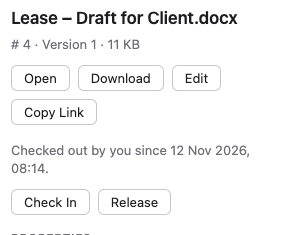
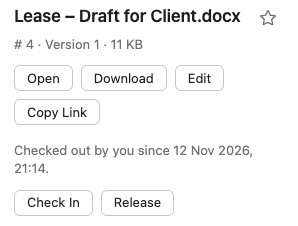
Retake the pictures the final fixes made untrue
The final review's fixes changed what some of the docs' pictures show: a
document's details now have a Favorites star beside its name (R93), Author
and Typist are people to pick in Edit and the filing form (R92), the #
result has the toolbar (R95), and Healdan Settings has had Start In since
PR A. Each picture is retaken from a fresh demo stack built from 88058278f,
as Task 21b took the User Guide's (headless Chrome at 1280 x 800, light,
Europe/London, en-GB, cropped losslessly), and keeps its file name:

- Admin Guide, Healdan Settings: the panel with Start In and the Storage tab
- Getting Around's whole window, Downloading's toolbar, Versions and both
  of Checking Out's pictures: the details with the star
- Finding by Doc #: the # result with its toolbar
- Properties: the Edit form with Author's list open
- Filing a Document: the form with Author and Typist as pickers

Their alt texts say what each now shows. The other pictures were checked
against the app and show nothing these fixes changed.

diff --git a/site/content/user/documents/checking-out-and-checking-in/index.md b/site/content/user/documents/checking-out-and-checking-in/index.md
@@ -38,7 +38,7 @@ time. It doesn't download anything: to edit the file, use **Open** (see
 [Opening Documents](../../office/opening-documents/)), or **Download** it (see
 [Downloading Documents](../downloading-documents/)).
 
-![The details of Lease – Draft for Client.docx, # 4, after Check Out: "Checked out by you since 12 Nov 2026, 08:14." with Check In and Release buttons, under Open, Download, Edit and Copy Link](checked-out-by-you.png)
+![The details of Lease – Draft for Client.docx, # 4, after Check Out: "Checked out by you since 12 Nov 2026, 21:14." with Check In and Release buttons, under its name and Favorites star and Open, Download, Edit and Copy Link](checked-out-by-you.png)
 
 You need permission to write the document. **Check Out** is greyed out while someone else has the document checked out
 or locked, and for a document you can't write.
@@ -64,7 +64,7 @@ That goes for your own check-out on a computer too. One you made by opening a do
 [Healdan Helper](../../office/) belongs to that computer, and the details say "Checked out by you on" its name. Release
 it there, or in the Classic Interface.
 
-![The details of Lease – Engrossment.docx, # 48, held on a computer: "Checked out by you on Healdan Helper on Office PC since 12 Nov 2026, 08:14. Release it on that computer, or in the Classic Interface (Unlock).", with Edit greyed out](checked-out-on-computer.png)
+![The details of Lease – Engrossment.docx, # 48, held on a computer: "Checked out by you on Healdan Helper on Office PC since 12 Nov 2026, 21:14. Release it on that computer, or in the Classic Interface (Unlock).", with Edit greyed out](checked-out-on-computer.png)
 
 A locked document says "Locked by" and who. A lock is taken off in the Classic Interface (see
 [Locking a Document](../locking-a-document/)).

diff --git a/site/content/user/documents/versions/index.md b/site/content/user/documents/versions/index.md
@@ -37,7 +37,7 @@ take it: see [Filing a Document](../../working-with-matters/filing-a-document/#d
 - **To go back to an earlier snapshot,** promote it from the Versions tab in the Classic Interface. That saves it as
   the latest.
 
-![The details of Subscription Agreement – Draft.docx, # 31, selected in a folder's list: Open, Download, Edit, Copy Link and Check Out, its properties (Client 1003 – Kestrel Software Ltd, Matter 1003.1 – Series A Investment, Class Agreements, Subclass Draft, Author Helen Ashcombe, Typist Chris Doyle, Date Filed 16 Oct 2026), and its versions, newest first: Version 2 by Helen Ashcombe on 29 Oct 2026 at 16:00, Version 1.1 by Priya Nair on 23 Oct 2026 at 15:30, and Version 1 by Chris Doyle on 16 Oct 2026 at 14:30, each with Preview and Download](versions.png)
+![The details of Subscription Agreement – Draft.docx, # 31, selected in a folder's list: its name with the filled Favorites star, as it's one of your favourites, then Open, Download, Edit, Copy Link and Check Out, its properties (Client 1003 – Kestrel Software Ltd, Matter 1003.1 – Series A Investment, Class Agreements, Subclass Draft, Author Helen Ashcombe, Typist Chris Doyle, Date Filed 16 Oct 2026), and its versions, newest first: Version 2 by Helen Ashcombe on 29 Oct 2026 at 16:00, Version 1.1 by Priya Nair on 23 Oct 2026 at 15:30, and Version 1 by Chris Doyle on 16 Oct 2026 at 14:30, each with Preview and Download](versions.png)
 
 ## Finding a Version by Number
 

diff --git a/site/content/user/getting-started/getting-around/index.md b/site/content/user/getting-started/getting-around/index.md
@@ -6,7 +6,7 @@ weight: 2
 Healdan's web page has a top bar across the top, a left pane down the left side and the main area beside it. The
 colours follow your browser's light or dark setting.
 
-![Healdan's web page in the Due Diligence folder of matter 1002.1 – Commercial Lease: the top bar with the Healdan name, the Documents search box, the ? button and the PN menu; the left pane with Recent, Recent Matters, My Matters opened to the matter's folders, and My Favorites; the folder's two documents, Service Charge Budget 2026–27.xlsx and Site Plan – Unit 4 Weir Lane.odg, with the second selected; and its details at the right, with the thumbnail of the plan, Open, Download, Edit, Copy Link and Check Out, its properties and its version](whole-window.png)
+![Healdan's web page in the Due Diligence folder of matter 1002.1 – Commercial Lease: the top bar with the Healdan name, the Documents search box, the ? button and the PN menu; the left pane with Recent, Recent Matters, My Matters opened to the matter's folders, and My Favorites; the folder's two documents, Service Charge Budget 2026–27.xlsx and Site Plan – Unit 4 Weir Lane.odg, with the second selected; and its details at the right, with the thumbnail of the plan, its name with the Favorites star beside it, Open, Download, Edit, Copy Link and Check Out, its properties and its version](whole-window.png)
 
 ## The Top Bar
 

diff --git a/site/content/user/finding-documents/finding-by-doc-number/index.md b/site/content/user/finding-documents/finding-by-doc-number/index.md
@@ -25,7 +25,7 @@ it makes a good link in an email or a note.
 The page shows a list with just that document in it, already selected, and its details at the right: its properties
 and its versions. For a version or snapshot, that version is marked in **Versions**.
 
-![The page for document # 31 in the web page: a list with just Subscription Agreement – Draft.docx, version 2, by Helen Ashcombe, selected, and its details at the right with its thumbnail, properties in matter 1003.1 – Series A Investment, and its versions, where Version 1.1, saved on 23 Oct 2026 at 15:30 by Priya Nair, is marked](doc-page.png)
+![The page for document # 31 in the web page: the toolbar, with Open, Preview, Download, Check Out and the ⋯ (More) button, above a list with just Subscription Agreement – Draft.docx, version 2, by Helen Ashcombe, selected, and its details at the right with the foot of its thumbnail, its name with the filled Favorites star, its properties in matter 1003.1 – Series A Investment, and its versions, where Version 1.1, saved on 23 Oct 2026 at 15:30 by Priya Nair, is marked](doc-page.png)
 
 - **It's found the moment it's filed.** Doc # addresses don't wait for the search index.
 - **If you can't read the document,** Healdan answers as if it didn't exist: "No document # 1234 that you can see."

diff --git a/site/content/user/documents/downloading-documents/index.md b/site/content/user/documents/downloading-documents/index.md
@@ -16,7 +16,7 @@ Select the document and choose **Download**, in the toolbar above the list or in
 Your browser saves the file under the document's name, as it does for any link to a file. Healdan doesn't open the
 file in the page or keep a copy of it there.
 
-![The web page in the Due Diligence folder of matter 1002.1 – Commercial Lease, with Site Plan – Unit 4 Weir Lane.odg selected: the toolbar above the list, with Upload, New Folder, Open, Preview, Download, Check Out and the ⋯ (More) button, the document count and Filters below it, and the Download button in the document's details at the right](download-toolbar.png)
+![The web page in the Due Diligence folder of matter 1002.1 – Commercial Lease, with Site Plan – Unit 4 Weir Lane.odg selected: the toolbar above the list, with Upload, New Folder, Open, Preview, Download, Check Out and the ⋯ (More) button, the document count and Filters below it, and the document's details at the right, with its name and Favorites star above the Download button](download-toolbar.png)
 
 If the file can't be reached right now, because it's in cloud storage or on a share that's down, the download fails.
 Your browser shows that in its list of downloads, and some browsers save a small file saying why instead. The app

diff --git a/site/content/user/working-with-matters/filing-a-document/index.md b/site/content/user/working-with-matters/filing-a-document/index.md
@@ -40,7 +40,7 @@ takes its subject, and the form says so. While a form is open the page behind it
 it appears get a form of their own, which opens when the first closes. This is the same form as
 **Edit** in a document's details: see [Properties](../properties/).
 
-![The File Documents form for three files going into the Correspondence folder of matter 1002.1: a title field for each of Note of Call – Hale.docx, Letter to Cardew Hollis.docx and Lease Plan Notes.txt, then Client 1002 – Brightwell Bakeries Ltd, Matter 1002.1 – Commercial Lease, Author and Typist Priya Nair, Class Correspondence, Subclass Letter, Comments and Legacy doc #, and the File 3 Items and Cancel buttons](filing-form.png)
+![The File Documents form for three files going into the Correspondence folder of matter 1002.1: a title field for each of Note of Call – Hale.docx, Letter to Cardew Hollis.docx and Lease Plan Notes.txt, then Client 1002 – Brightwell Bakeries Ltd, Matter 1002.1 – Commercial Lease, Author and Typist as people to pick, each holding Priya Nair, Class Correspondence, Subclass Letter, Comments and Legacy doc #, and the File 3 Items and Cancel buttons](filing-form.png)
 
 ### The Tray
 

diff --git a/site/content/admin/healdan-settings/index.md b/site/content/admin/healdan-settings/index.md
@@ -8,7 +8,7 @@ Clients are saved from their own window, without Save. Two tabs sit beside them:
 in through a provider, such as Microsoft Entra ID (see [Sign-In Providers](#sign-in-providers)), and **Storage**,
 which sets up where each Store keeps its files (see [The Storage Tab](#the-storage-tab)).
 
-![The Healdan settings panel, with the Sign-In tab beside it: matter labels, numbering, default Class, the Recent Matters window, the next doc #, the two device sign-in limits, API origins allowed (CORS), and the client list with Add client and Edit, holding seven clients from 998 Ashcombe Reeve LLP to 1006 Oliver and Grace Pemberton](healdan-settings.png)
+![The Healdan settings panel, with the Sign-In and Storage tabs beside it: matter labels, numbering, default Class, the Recent Matters window, the next doc #, Start In set to User App, the two device sign-in limits, API origins allowed (CORS), and the client list with Add client and Edit, holding seven clients from 998 Ashcombe Reeve LLP to 1006 Oliver and Grace Pemberton](healdan-settings.png)
 
 | Setting | What it does |
 |---|---|

diff --git a/site/content/user/working-with-matters/properties/index.md b/site/content/user/working-with-matters/properties/index.md
@@ -28,7 +28,7 @@ Your administrator can add more properties.
 Choose **Edit** in a document's details. The properties become a form, made from the profile, so your firm's own
 properties are in it.
 
-![The details of Service Charge Budget 2026–27.xlsx, # 30, with its properties as a form: Client and Matter, Author and Typist Jamie Clarke as text, Class (required) Finance, Subclass Statement, Comments and Legacy doc # as fields, and the Save and Cancel buttons](edit-properties.png)
+![The details of Service Charge Budget 2026–27.xlsx, # 30, with its properties as a form: Client and Matter as text; Author with "Pri" typed and its list open, offering Jamie Clarke, the person it has now, first, then Priya Nair; Class (required) Finance, Subclass Statement, Comments and Legacy doc # as fields; and the Save and Cancel buttons](edit-properties.png)
 
 - **A required property has a \* after its name.** Class is required.
 - **A property picked from a list offers only its options.** A Subclass offers only the ones that belong to the Class
